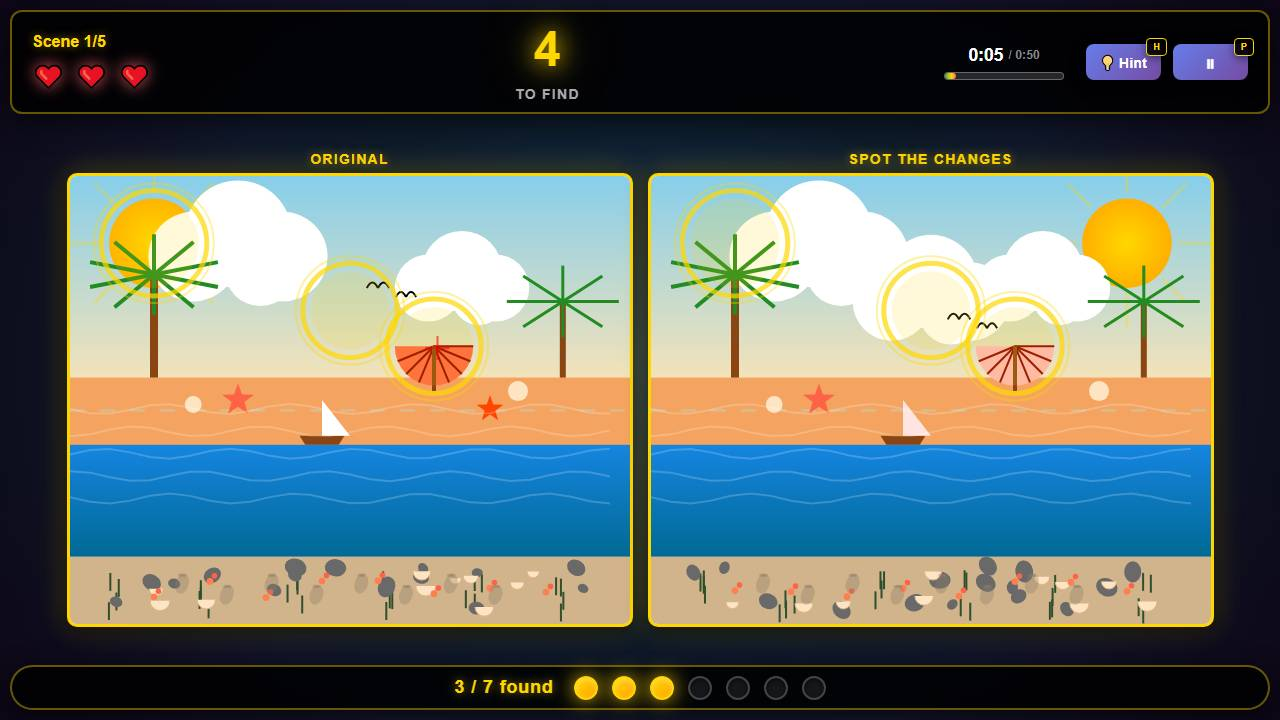
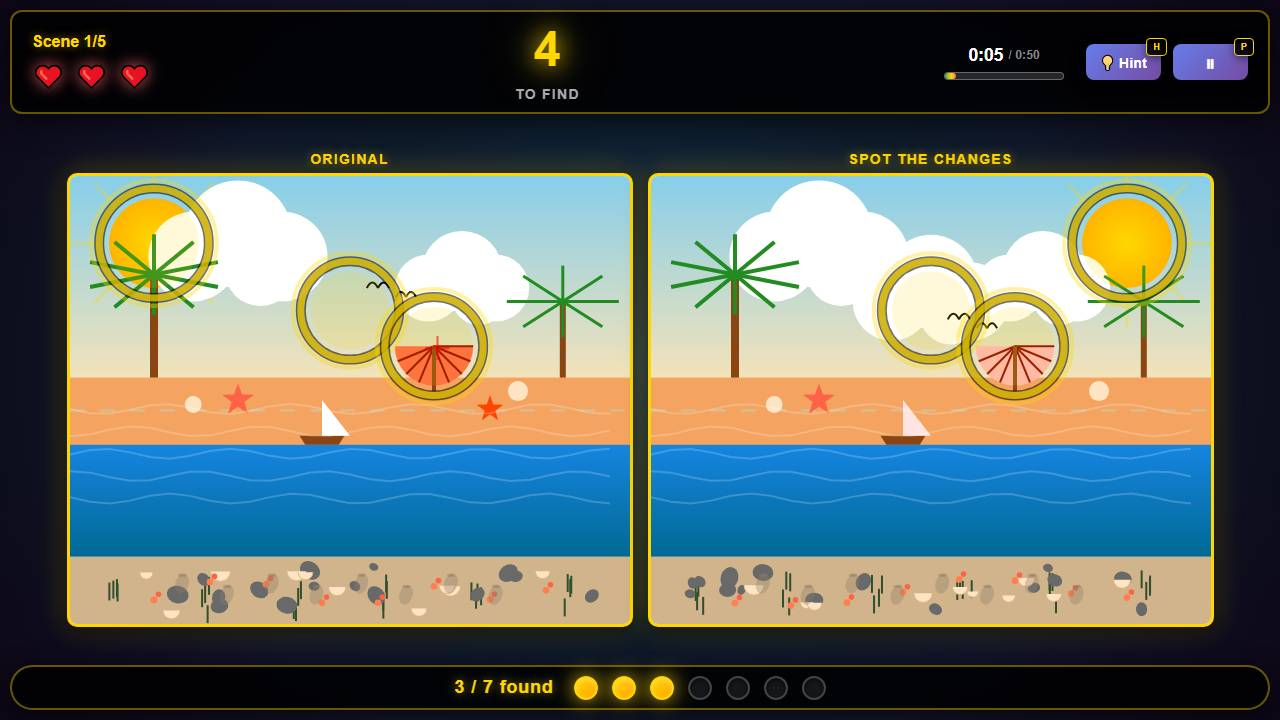
Fix Beach sun ring position (left/right panels), enlarge Forest/Lantern rings to 28px min, add dark outline to all rings for contrast, separate hit areas per panel

diff --git a/game/scene-generator.js b/game/scene-generator.js
@@ -17,31 +17,31 @@ export class SceneGenerator {
   generateDiffs(sceneIdx) {
     const diffs = [
       [
-        { x: 0.15, y: 0.15, radius: 0.08 },
+        { x: 0.15, y: 0.15, radius: 0.08, xLeft: 0.15, yLeft: 0.15, xRight: 0.85, yRight: 0.15 },
         { x: 0.5, y: 0.3, radius: 0.07 },
         { x: 0.65, y: 0.38, radius: 0.07 },
         { x: 0.45, y: 0.58, radius: 0.06 },
-        { x: 0.75, y: 0.52, radius: 0.03 },
+        { x: 0.75, y: 0.52, radius: 0.05 },
         { x: 0.55, y: 0.25, radius: 0.05 },
-        { x: 0.3, y: 0.5, radius: 0.03 }
+        { x: 0.3, y: 0.5, radius: 0.05 }
       ],
       [
-        { x: 0.85, y: 0.15, radius: 0.06 },
-        { x: 0.5, y: 0.42, radius: 0.1 },
-        { x: 0.35, y: 0.62, radius: 0.025 },
-        { x: 0.4, y: 0.58, radius: 0.02 },
-        { x: 0.62, y: 0.3, radius: 0.03 },
-        { x: 0.55, y: 0.56, radius: 0.02 },
-        { x: 0.25, y: 0.22, radius: 0.02 }
+        { x: 0.85, y: 0.15, radius: 0.05 },
+        { x: 0.5, y: 0.42, radius: 0.05 },
+        { x: 0.35, y: 0.62, radius: 0.05 },
+        { x: 0.4, y: 0.58, radius: 0.05 },
+        { x: 0.62, y: 0.3, radius: 0.05 },
+        { x: 0.55, y: 0.56, radius: 0.05 },
+        { x: 0.25, y: 0.22, radius: 0.05 }
       ],
       [
         { x: 0.7, y: 0.6, radius: 0.07 },
         { x: 0.45, y: 0.76, radius: 0.08 },
-        { x: 0.15, y: 0.08, radius: 0.02 },
+        { x: 0.15, y: 0.08, radius: 0.05 },
         { x: 0.5, y: 0.25, radius: 0.06 },
-        { x: 0.25, y: 0.3, radius: 0.04 },
-        { x: 0.68, y: 0.77, radius: 0.03 },
-        { x: 0.35, y: 0.68, radius: 0.04 }
+        { x: 0.25, y: 0.3, radius: 0.05 },
+        { x: 0.68, y: 0.77, radius: 0.05 },
+        { x: 0.35, y: 0.68, radius: 0.05 }
       ],
       [
         { x: 0.18, y: 0.43, radius: 0.055 },
@@ -49,17 +49,17 @@ export class SceneGenerator {
         { x: 0.52, y: 0.43, radius: 0.055 },
         { x: 0.69, y: 0.46, radius: 0.055 },
         { x: 0.86, y: 0.44, radius: 0.055 },
-        { x: 0.25, y: 0.75, radius: 0.04 },
-        { x: 0.15, y: 0.68, radius: 0.035 }
+        { x: 0.25, y: 0.75, radius: 0.05 },
+        { x: 0.15, y: 0.68, radius: 0.05 }
       ],
       [
         { x: 0.25, y: 0.3, radius: 0.14 },
         { x: 0.58, y: 0.5, radius: 0.055 },
-        { x: 0.08, y: 0.82, radius: 0.035 },
+        { x: 0.08, y: 0.82, radius: 0.05 },
         { x: 0.5, y: 0.2, radius: 0.09 },
         { x: 0.88, y: 0.25, radius: 0.07 },
-        { x: 0.45, y: 0.73, radius: 0.03 },
-        { x: 0.22, y: 0.82, radius: 0.02 }
+        { x: 0.45, y: 0.73, radius: 0.05 },
+        { x: 0.22, y: 0.82, radius: 0.05 }
       ]
     ];
     return diffs[sceneIdx] || diffs[0];

diff --git a/game/render.js b/game/render.js
@@ -28,23 +28,27 @@ export class Renderer {
     found.forEach(diffIdx => {
       const diff = scene.diffs[diffIdx];
       if (diff) {
-        const x = diff.x * w;
-        const y = diff.y * h;
+        const leftX = diff.xLeft !== undefined ? diff.xLeft * w : diff.x * w;
+        const leftY = diff.yLeft !== undefined ? diff.yLeft * h : diff.y * h;
+        const rightX = diff.xRight !== undefined ? diff.xRight * w : diff.x * w;
+        const rightY = diff.yRight !== undefined ? diff.yRight * h : diff.y * h;
         const r = diff.radius * w;
         
-        this.drawFoundMarker(this.leftCtx, x, y, r);
-        this.drawFoundMarker(this.rightCtx, x, y, r);
+        this.drawFoundMarker(this.leftCtx, leftX, leftY, r);
+        this.drawFoundMarker(this.rightCtx, rightX, rightY, r);
       }
     });
 
     if (this.hintTarget !== null && this.hintAnimTime < 2) {
       const diff = scene.diffs[this.hintTarget];
       if (diff) {
-        const x = diff.x * w;
-        const y = diff.y * h;
+        const leftX = diff.xLeft !== undefined ? diff.xLeft * w : diff.x * w;
+        const leftY = diff.yLeft !== undefined ? diff.yLeft * h : diff.y * h;
+        const rightX = diff.xRight !== undefined ? diff.xRight * w : diff.x * w;
+        const rightY = diff.yRight !== undefined ? diff.yRight * h : diff.y * h;
         const r = diff.radius * w;
-        this.drawHintMarker(this.leftCtx, x, y, r);
-        this.drawHintMarker(this.rightCtx, x, y, r);
+        this.drawHintMarker(this.leftCtx, leftX, leftY, r);
+        this.drawHintMarker(this.rightCtx, rightX, rightY, r);
       }
     }
   }
@@ -58,8 +62,14 @@ export class Renderer {
     ctx.translate(x, y);
     ctx.scale(expand, expand);
     
+    ctx.strokeStyle = `rgba(0, 0, 0, ${pulse * 0.8})`;
+    ctx.lineWidth = 10;
+    ctx.beginPath();
+    ctx.arc(0, 0, r + 10, 0, Math.PI * 2);
+    ctx.stroke();
+    
     ctx.strokeStyle = `rgba(255, 215, 0, ${pulse})`;
-    ctx.lineWidth = 8;
+    ctx.lineWidth = 7;
     ctx.beginPath();
     ctx.arc(0, 0, r + 10, 0, Math.PI * 2);
     ctx.stroke();
@@ -86,8 +96,14 @@ export class Renderer {
     ctx.save();
     ctx.translate(x, y);
     
+    ctx.strokeStyle = `rgba(0, 0, 0, ${alpha * 0.8})`;
+    ctx.lineWidth = 10;
+    ctx.beginPath();
+    ctx.arc(0, 0, r * scale * expand, 0, Math.PI * 2);
+    ctx.stroke();
+    
     ctx.strokeStyle = `rgba(255, 255, 0, ${alpha * 0.9})`;
-    ctx.lineWidth = 8;
+    ctx.lineWidth = 7;
     ctx.beginPath();
     ctx.arc(0, 0, r * scale * expand, 0, Math.PI * 2);
     ctx.stroke();
